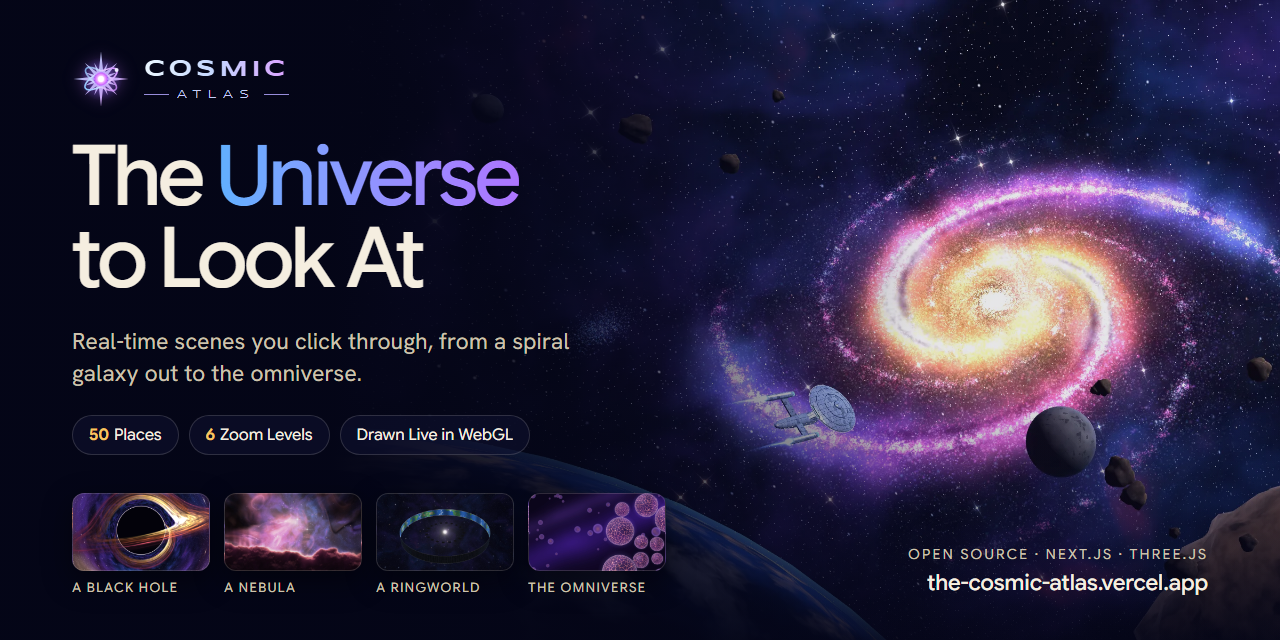
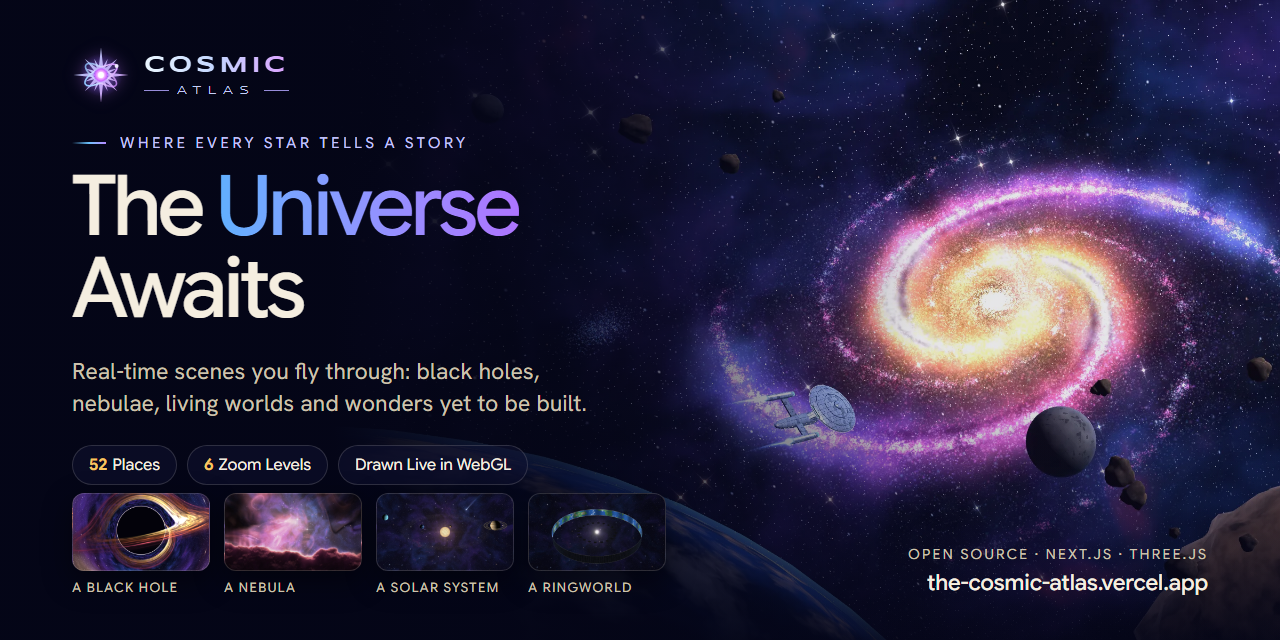
🍱 assets: Make the share card the site's preview image, without the star attractions

Changed region(s): [[0.0312, 0.2188, 0.4688, 0.75], [0.3125, 0.75, 0.5312, 0.9375], [0.0625, 0.0625, 0.2188, 0.1562]]

diff --git a/scripts/social-card.html b/scripts/social-card.html
@@ -1,5 +1,7 @@
 <!doctype html>
-<!-- The repo's share card (1280x640), rendered by scripts/social.mjs from the site's own scene stills. -->
+<!-- The share card, rendered by scripts/social.mjs from the site's own scene stills: the repo's (1280x640) and
+     the site's home Open Graph image (1200x630, D-207). It fills the window, so one layout serves both.
+     The Universe, the Multiverse and the Omniverse are kept off it: they are the surprises. -->
 <html lang="en">
 <head>
 <meta charset="utf-8" />
@@ -17,7 +19,7 @@
     --glass-edge: oklch(0.95 0.02 85 / 0.16);
   }
   * { box-sizing: border-box; margin: 0; }
-  html, body { width: 1280px; height: 640px; overflow: hidden; background: var(--space); }
+  html, body { width: 100vw; height: 100vh; overflow: hidden; background: var(--space); }
   body { position: relative; font-family: "Hanken Grotesk", system-ui, sans-serif; color: var(--ink); }
 
   .bg { position: absolute; inset: 0 0 0 330px; background: url("../public/posters/atlas-start-wide.webp") center / cover no-repeat; }
@@ -26,7 +28,10 @@
       linear-gradient(90deg, var(--space) 26%, oklch(0.13 0.04 275 / 0.82) 44%, oklch(0.13 0.04 275 / 0.1) 72%),
       linear-gradient(0deg, oklch(0.13 0.04 275 / 0.92) 0%, transparent 38%); }
 
-  .copy { position: absolute; left: 72px; top: 50px; width: 600px; }
+  .copy { position: absolute; left: 72px; top: 46px; width: 640px; }
+  .eyebrow { margin-top: 30px; font-family: "Google Sans Flex", sans-serif; font-size: 15px; letter-spacing: 0.22em;
+    text-transform: uppercase; color: oklch(0.84 0.08 285); display: flex; align-items: center; gap: 14px; }
+  .eyebrow::before { content: ""; width: 34px; height: 1.5px; background: linear-gradient(90deg, transparent, oklch(0.78 0.12 240), oklch(0.72 0.17 298)); }
   .mark { display: flex; align-items: center; gap: 14px; font-family: "Google Sans Flex", sans-serif;
     font-size: 17px; letter-spacing: 0.42em; text-transform: uppercase; color: var(--ink-2); }
   .mark svg { width: 58px; height: 58px; filter: drop-shadow(0 0 8px oklch(0.68 0.2 310 / 0.55)); }
@@ -37,7 +42,7 @@
   .word i { font-style: normal; font-weight: 400; font-size: 11.5px; letter-spacing: 0.62em; color: oklch(0.86 0.06 275);
     display: flex; align-items: center; gap: 8px; }
   .word i::before, .word i::after { content: ""; flex: 1; height: 1px; background: oklch(0.8 0.13 290 / 0.8); }
-  h1 { margin-top: 28px; font-family: "Google Sans Flex", sans-serif; font-weight: 500; font-size: 84px;
+  h1 { margin-top: 14px; font-family: "Google Sans Flex", sans-serif; font-weight: 500; font-size: 84px;
     line-height: 0.98; letter-spacing: -0.03em; }
   h1 span { background: linear-gradient(90deg, var(--glow-blue), var(--glow-violet)); -webkit-background-clip: text;
     background-clip: text; color: transparent; }
@@ -48,6 +53,14 @@
     font-family: "Google Sans Flex", sans-serif; font-size: 16px; color: var(--ink); }
   .stats b { font-weight: 600; color: var(--beacon); margin-right: 5px; }
 
+  /* the 1200x630 Open Graph size: a little tighter so the stats clear the tiles */
+  @media (max-height: 635px) {
+    .copy { top: 38px; }
+    .eyebrow { margin-top: 22px; }
+    h1 { font-size: 76px; }
+    .lede { margin-top: 18px; font-size: 21px; }
+    .stats { margin-top: 18px; }
+  }
   .strip { position: absolute; left: 72px; right: 72px; bottom: 44px; display: flex; align-items: flex-end; gap: 14px; }
   .tile { width: 138px; }
   .tile i { display: block; height: 78px; border-radius: 12px; background-size: cover; background-position: center;
@@ -72,10 +85,11 @@
       </svg>
       <span class="word"><b>Cosmic</b><i>Atlas</i></span>
     </div>
-    <h1>The <span>Universe</span><br />to Look At</h1>
-    <p class="lede">Real-time scenes you click through, from a spiral galaxy out to the omniverse.</p>
+    <p class="eyebrow">Where Every Star Tells A Story</p>
+    <h1>The <span>Universe</span><br />Awaits</h1>
+    <p class="lede">Real-time scenes you fly through: black holes, nebulae, living worlds and wonders yet to be built.</p>
     <div class="stats">
-      <div><b>50</b>Places</div>
+      <div><b>52</b>Places</div>
       <div><b>6</b>Zoom Levels</div>
       <div>Drawn Live in WebGL</div>
     </div>
@@ -84,8 +98,8 @@
   <div class="strip">
     <div class="tile"><i style="background-image:url('../public/posters/black-hole-wide.webp')"></i><p>A Black Hole</p></div>
     <div class="tile"><i style="background-image:url('../public/posters/nebula-wide.webp')"></i><p>A Nebula</p></div>
+    <div class="tile"><i style="background-image:url('../public/posters/solar-system-wide.webp')"></i><p>A Solar System</p></div>
     <div class="tile"><i style="background-image:url('../public/posters/ringworld-wide.webp')"></i><p>A Ringworld</p></div>
-    <div class="tile"><i style="background-image:url('../public/posters/omniverse-wide.webp')"></i><p>The Omniverse</p></div>
     <div class="url"><p>Open Source · Next.js · Three.js</p><strong>the-cosmic-atlas.vercel.app</strong></div>
   </div>
 </body>
